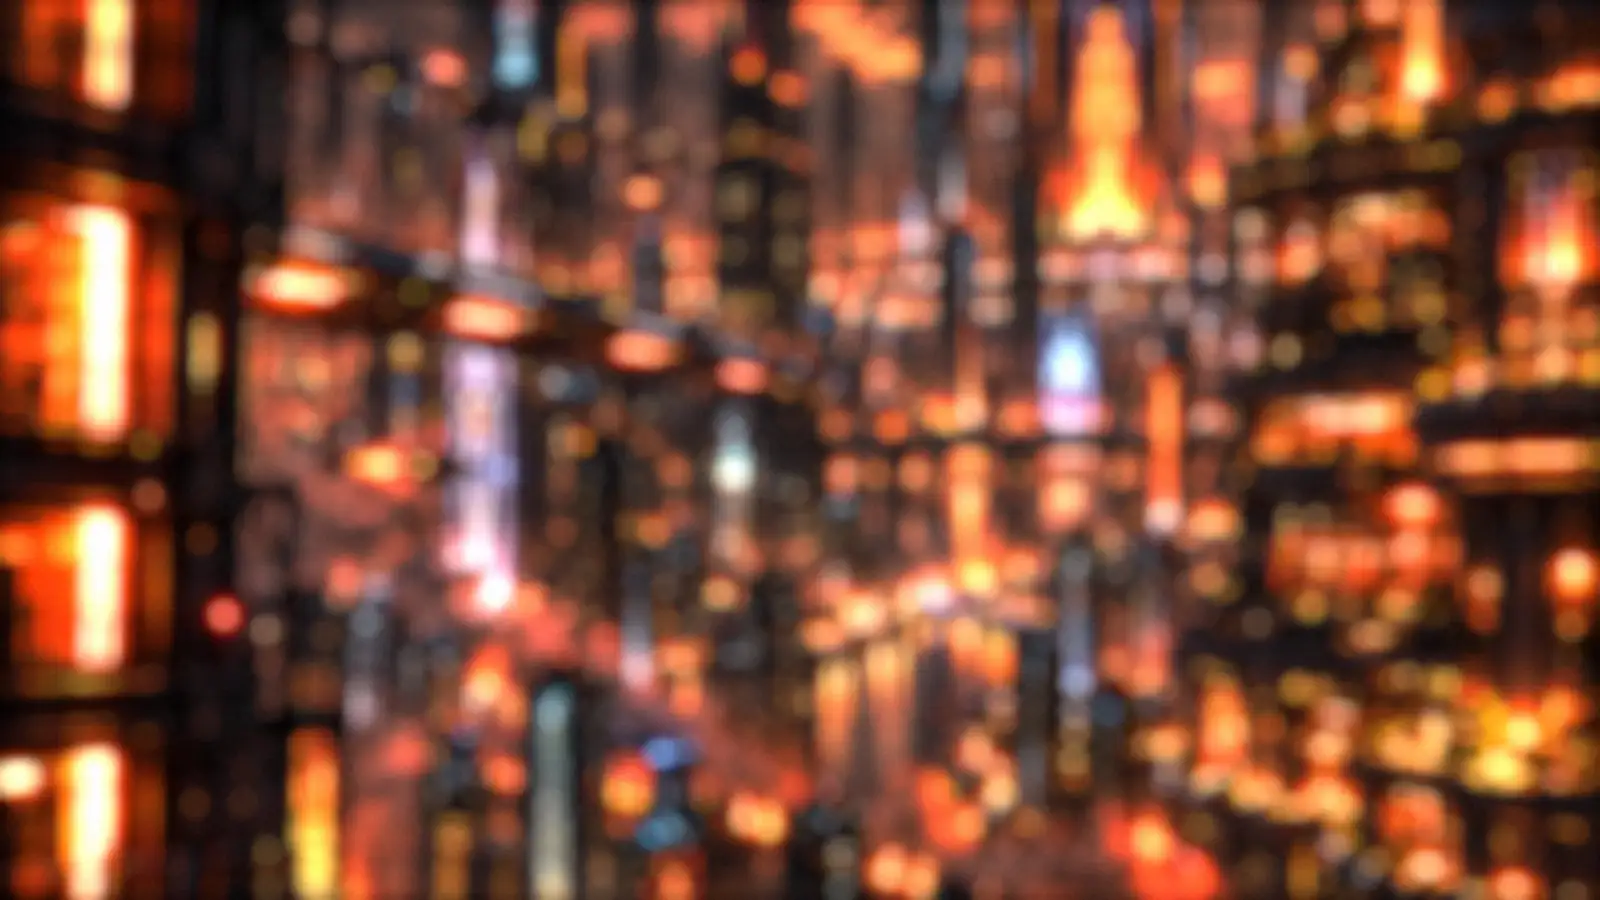
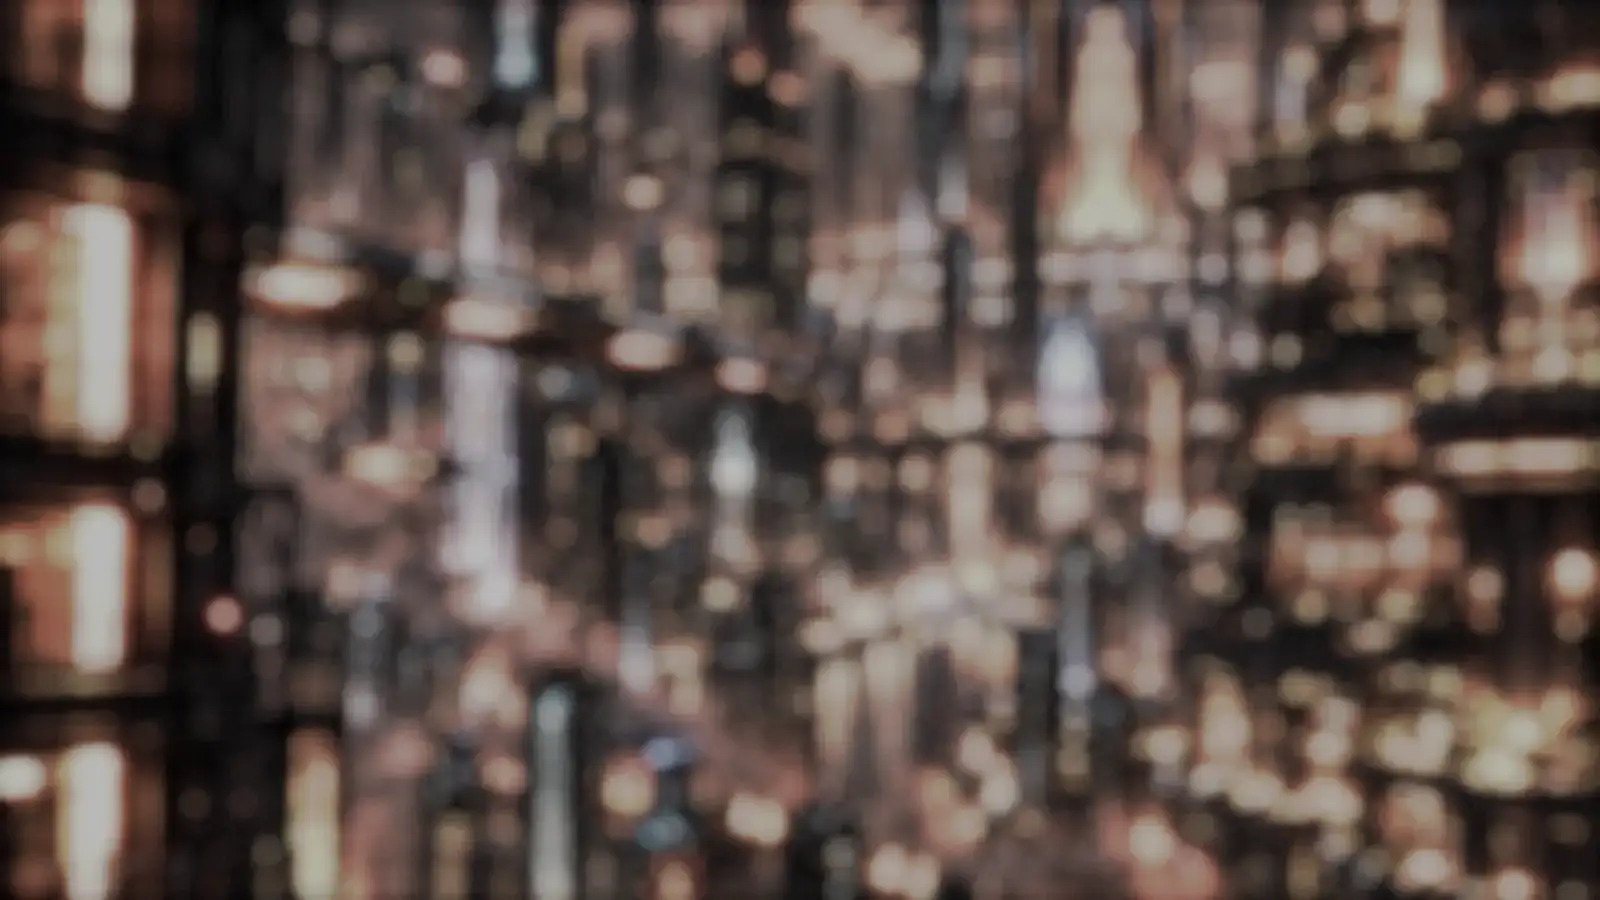
Cyberpunk: фони з приглушеною насиченістю (35%) і стисненими відблисками; scrim 42%/70%
Прибирає райдужний шум боке: лишається форма міста й легкий відтінок застосунку. WebP ~340 KB на 6 застосунків.
Відкат до насичених: git revert цього коміту.

Claude-Session: https://claude.ai/code/session_01XRciSyGzXWcG83xZpB7vJ8

diff --git a/client/src/themes/cyberpunk.css b/client/src/themes/cyberpunk.css
@@ -319,8 +319,8 @@ html[data-theme='cyberpunk'] {
       transparent 44%
     ),
     linear-gradient(
-      color-mix(in srgb, var(--color-bg) 50%, transparent),
-      color-mix(in srgb, var(--color-bg) 76%, transparent)
+      color-mix(in srgb, var(--color-bg) 42%, transparent),
+      color-mix(in srgb, var(--color-bg) 70%, transparent)
     );
   --bg-photo-land: url('/backgrounds/gym-land.webp');
   --bg-photo-port: url('/backgrounds/gym-port.webp');
